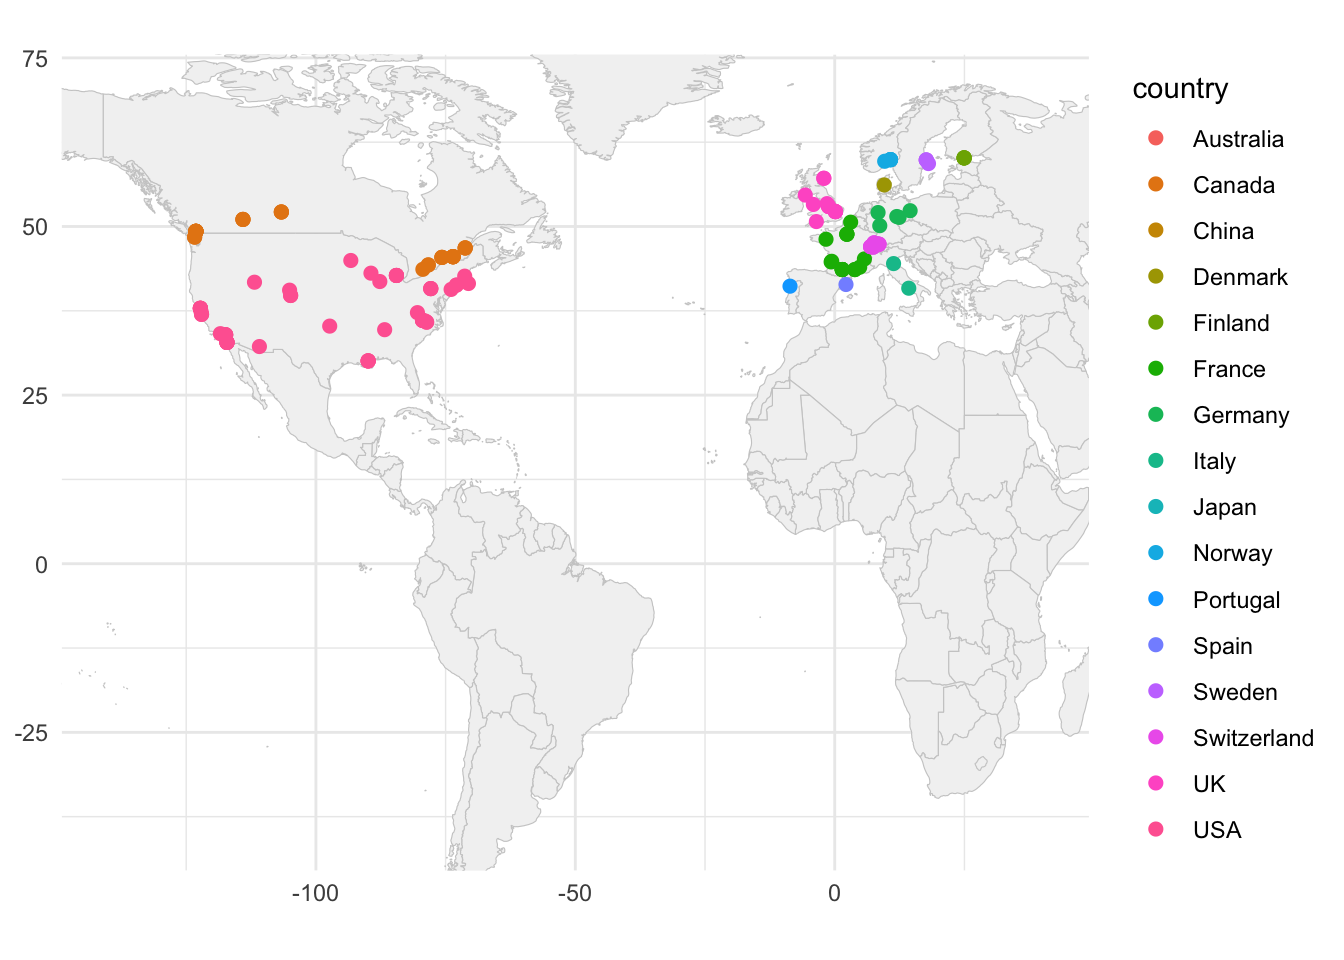
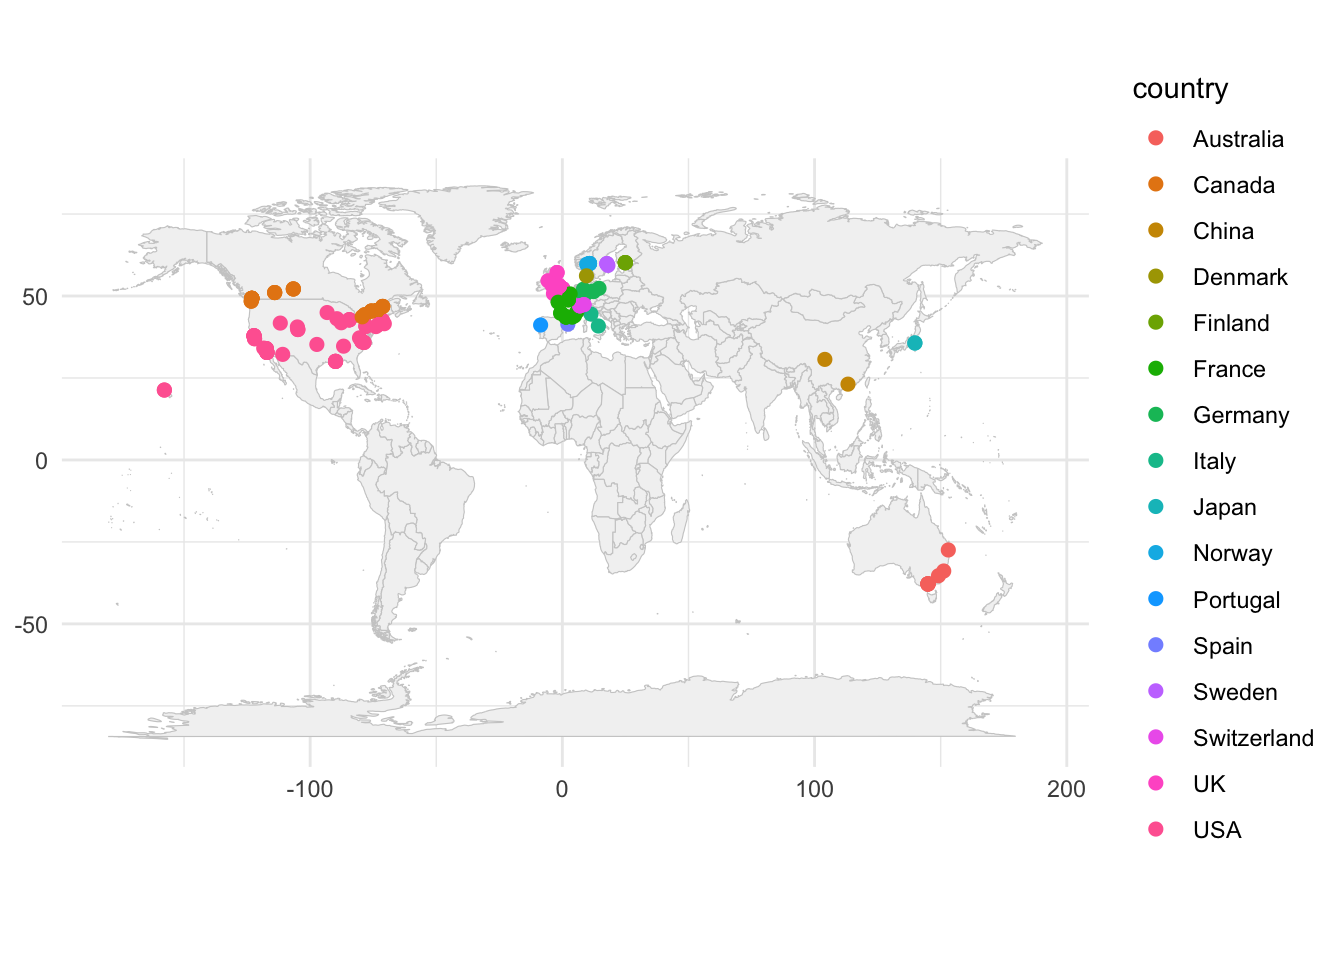
Built site for gh-pages

diff --git a/about.html b/about.html
@@ -186,8 +186,8 @@ ul.task-list li input[type="checkbox"] {
 <h1>Collaborators</h1>
 <div class="cell">
 <div class="cell-output-display">
-<div class="datatables html-widget html-fill-item" id="htmlwidget-de33686ee880739a256c" style="width:100%;height:auto;"></div>
-<script type="application/json" data-for="htmlwidget-de33686ee880739a256c">{"x":{"filter":"top","vertical":false,"filterHTML":"<tr>\n  <td><\/td>\n  <td data-type=\"character\" style=\"vertical-align: top;\">\n    <div class=\"form-group has-feedback\" style=\"margin-bottom: auto;\">\n      <input type=\"search\" placeholder=\"All\" class=\"form-control\" style=\"width: 100%;\"/>\n      <span class=\"glyphicon glyphicon-remove-circle form-control-feedback\"><\/span>\n    <\/div>\n  <\/td>\n  <td data-type=\"character\" style=\"vertical-align: top;\">\n    <div class=\"form-group has-feedback\" style=\"margin-bottom: auto;\">\n      <input type=\"search\" placeholder=\"All\" class=\"form-control\" style=\"width: 100%;\"/>\n      <span class=\"glyphicon glyphicon-remove-circle form-control-feedback\"><\/span>\n    <\/div>\n  <\/td>\n  <td data-type=\"character\" style=\"vertical-align: top;\">\n    <div class=\"form-group has-feedback\" style=\"margin-bottom: auto;\">\n      <input type=\"search\" placeholder=\"All\" class=\"form-control\" style=\"width: 100%;\"/>\n      <span class=\"glyphicon glyphicon-remove-circle form-control-feedback\"><\/span>\n    <\/div>\n  <\/td>\n<\/tr>","data":[["1","2","3","4","5","6","7","8","9","10","11","12","13","14","15","16","17","18","19","20","21","22","23","24","25","26","27","28","29","30","31","32","33","34","35","36","37","38","39","40","41","42","43","44","45","46","47","48","49","50","51","52","53","54","55","56","57","58","59","60","61","62","63","64","65","66","67","68","69","70","71","72","73","74","75","76","77","78","79","80","81","82","83","84","85","86","87","88","89","90","91","92","93","94","95","96","97","98","99","100","101","102","103","104","105","106","107","108","109","110","111","112","113","114","115","116","117","118","119","120","121","122","123","124","125","126","127","128","129","130","131","132","133","134","135","136","137","138","139","140","141","142","143","144","145","146","147","148","149","150","151","152","153","154","155","156","157","158","159","160","161","162","163","164","165","166","167","168","169","170","171","172","173","174","175","176","177","178","179","180","181","182"],["Paul Battlay","James Reeve","Kathryn Hodgins","Justin Borevitz","Keyne Monro","Tom Schmidt","Magena Marzonie","John Stinchcombe","Michael Whitlock","Tony Kess","MK Hickox","Pauline Hessenauer","Rowan Barrett","Lucas Eckert","Zhiqin Long","Gregory Owens","Dolph Schluter","Jon Mee","Loren Rieseberg","Cameron So","Katie Marshall","Victoria Marie Glynn","Baosheng Wang","Milos Duchoslav","Filip Kolar","Magdalena Bohutinska","Christelle Fraïsse","Patrik Nosil","Jonathan Rolland","Thibault LEROY","Fabrice Roux","Claire MEROT","Maxime Bonhomme","Maëva Gabrielli","Francesca Raffini","Rui Faria","Martin Lascoux","Martha Rendón Anaya","Katie Peichel","Marius Roesti","Benjamin Dauphin","Christian Rellstab","Felix Gugerli","Angus Davison","Roger Butlin","Chris Jiggins","Abby Keller","Joan Ferrer Obiol","Samuel Bogan","Anna McCormick","Jessica Purcell","Jill Love","Remy Gatins","Whitney Murchison-Kastner","Jason Holliday","Katie Lotterhos","Sarah Kingston","Zach Gompert","James Santangelo","Mikey Kantar","Erik Enbody","Samridhi Chaturvedi","Diana Rennison","Zachary Tobias","Noah Rose","Sean Schoville","Jenn Coughlan","Derek Denney","Alan Brelsford","Helen Bothwell","James Fifer","Siri Birkeland","Josefa Gonzalez","Tanja Pyhäjärvi","Kristin Winchell","Sam Yeaman","Anne Chambers","Ariadna Morales","Gabriele Nocchi","Keaton Tremble","Felix Zimmermann","Henry North","Satpal Bilkhu","Daniel Croll","Sara Branco","Jessica Fletcher","Sundy Maurice","Jørn Henrik Sønstebø","Aaron Shafer","Lesley Lancaster","Susan McEvoy","Eric Wootton","Faezeh Azimi Chetabi","Moshe Jasper","Veronique Paris","Weiping Zhang","Brandon Lind","Jill Wegrzyn","Cynthia Webster","Mike Barker","Garima Setia","Joanna Kelley","Peter Morrell","Bonnie Fraser","Dan Bolnick","Emma Choi","Rogini Runghen","Sara Schaal","Nicky Lustenhouwer","Matthew Farnitano","Natacha Nikolic","Leon Hilgers","Veronika Lipánová","Desanka Lazic","Ivan Scotti","Dabao Sun Lu","Benjamin Brachi","Tobias Baril","Santiago C. González-Martínez","Joaquin Nunez","Emily Longman","Niels Müller","Justin Boissinot","Jean Keller","José Cerca","Nicolò Tellini","Austin Katzer","David Kingsley","Andrew MacColl","Christophe Patterson","Ji Wang","Frédéric Chain","John Burley","Jordan Bemmels","Pei-Wei Sun","Maria Akopyan","Christoph Rosche","Nina Therkildsen","Caio Brunharo","Sara Sorkhabi","Takashi Tsuchimatsu","Ryo Suda","Emily Josephs","Tom Booker","Frédéric Guillaume","Samantha Sudoko","Jesse Lasky","Diana Gamba","Yvonne Willi","Lionel Di Santo","Christopher Wheat","Acer VanWallendael","Julia Kreiner","Kay Lucek","Xavier Dallaire","Jean-Sébastien Moore","Marianne Elias","Paul Jay","Jing Wang","Alexander Papadopulos","Colette Berg","David Lowry","Moisés Expósito Alonso","Zhe Cai","Joana Meier","Fernando Seixas","Daniel Sadler","Gaston Rognon","Miles Roberts","Jules Perez","Oliver Selmoni","Jeremy Yoder","David James Konkin","Xi Zhang","Petri Kemppainen","Jess Rhodes","Meghan Smith","Thomas Bataillon","Nikolai Hay","Malte Mader","Jenny Tung","Dustin Cram"],["Australia","Denmark","Australia","Australia","Australia","Australia","Australia","Canada","Canada","Canada","Canada","Canada","Canada","Canada","Canada","Canada","Canada","Canada","Canada","Canada","Canada","Canada","China","Czechia","Czechia","Czechia","France","France","France","France","France","France","France","France","Italy","Portugal","Sweden","Sweden","Switzerland","Switzerland","Switzerland","Switzerland","Switzerland","UK","UK","UK","USA","USA","USA","USA","USA","USA","USA","USA","USA","USA","USA","USA","Canada","USA","USA","USA","USA","USA","USA","USA","USA","USA","USA","USA","USA","Norway","Spain","Finland","USA","Canada","USA","France","Italy","USA","Switzerland","UK","Canada","Switzerland","USA","USA","France","Norway","Canada","UK","Finland","Canada","Canada","Australia","Australia","Sweden","USA","USA","USA","USA","USA","USA","USA","UK","USA","USA","USA","USA","UK","USA","France","Germany","Switzerland","Germany","France","Norway","France","Switzerland","France","USA","USA","Germany","Canada","France","Norway","Norway","USA","USA","UK","UK","Canada","USA","Australia","Canada","USA","USA","Germany","USA","USA","UK","Japan","Japan","USA","Canada","Finland","USA","USA","USA","Switzerland","Switzerland","Sweden","USA","USA","Switzerland","Canada","Canada","France","France","China","UK","USA","USA","USA","Canada","UK","UK","USA","France","USA","USA","Switzerland","USA","Canada","Canada","Finland","USA","Canada","Denmark","USA","Germany","Germany","Canada"],["Melbourne","Silkeborg","Melbourne","Melbourne","Melbourne","Sydney","Brisbane","Toronto","Vancouver","Ottawa","Montreal","Quebec","Montreal","Montreal","Vancouver","Victoria","Vancouver","Calgary","Vancouver","Montreal","Vancouver","Montreal","Guangzhou","Praha","Praha","Praha","Lille","Montpellier","Toulouse","Toulouse","Toulouse","Rennes","Toulouse","Toulouse","Naples","Porto","Uppsala","Uppsala","Bern","Bern","Birmensdorf","Birmensdorf","Birmensdorf","Nottingham","Sheffield","Cambridge","Berkeley","Fort Collins","Santa Cruz","Honolulu","Riverside","New Orleans","Nahant","New Orleans","Blacksburg","Nahant","Falmouth","Logan","Ottawa","Honolulu","Ithaca","New Orleans","San Diego","San Diego","San Diego","Madison","New Haven","East Lansing","Riverside","Athens","San Diego","Oslo","Barcelona","Helsinki","New York","Calgary","Berkeley","Montpellier","Bologna","Durham","Birmensdorf","Cambridge","Ottawa","Neuchatel","Denver","Denver","Paris","Kongsberg","Peterborough","Aberdeen","Helsinki","Montreal","Peterborough","Melbourne","Melbourne","Uppsala","Storrs","Storrs","Storrs","Tucson","New Orleans","Santa Cruz","Minneapolis","Exeter","Storrs","Storrs","Storrs","Norman","Aberdeen","San Diego","Saint-Pée-sur-Nivelle","Frankfurt","Zurich","Braunschweig","Avignon","Oslo","Bordeaux","Neuchatel","Cestas","Burlington","Burlington","Braunschweig","Calgary",null,"Oslo","Oslo","Stanford","Stanford","Nottingham","Nottingham","Vancouver","Lowell","Canberra","Victoria","New Haven","Riverside","Halle","Ithaca","State College","Cambridge","Tokyo","Tokyo","East Lansing","Vancouver","Helsinki","Riverside","State College","State College","Basel","Basel","Stockholm","Raleigh","Chicago","Neuchatel","Quebec","Quebec","Paris","Grenoble","Chengdu","Bangor","East Lansing","East Lansing","Berkeley","Vancouver","Cambridge","Cambridge","Burlington","Paris","Berkeley","Berkeley","Zurich","Los Angeles","Saskatoon","Saskatoon","Helsinki","Palo Alto","Vancouver","Aarhus","Raleigh","Braunschweig","Leipzig","Saskatoon"]],"container":"<table class=\"display\">\n  <thead>\n    <tr>\n      <th> <\/th>\n      <th>Name<\/th>\n      <th>Country<\/th>\n      <th>City<\/th>\n    <\/tr>\n  <\/thead>\n<\/table>","options":{"pageLength":10,"lengthChange":false,"columnDefs":[{"orderable":false,"targets":0},{"name":" ","targets":0},{"name":"Name","targets":1},{"name":"Country","targets":2},{"name":"City","targets":3}],"order":[],"autoWidth":false,"orderClasses":false,"orderCellsTop":true}},"evals":[],"jsHooks":[]}</script>
+<div class="datatables html-widget html-fill-item" id="htmlwidget-75e8ce80c500161feab8" style="width:100%;height:auto;"></div>
+<script type="application/json" data-for="htmlwidget-75e8ce80c500161feab8">{"x":{"filter":"top","vertical":false,"filterHTML":"<tr>\n  <td><\/td>\n  <td data-type=\"character\" style=\"vertical-align: top;\">\n    <div class=\"form-group has-feedback\" style=\"margin-bottom: auto;\">\n      <input type=\"search\" placeholder=\"All\" class=\"form-control\" style=\"width: 100%;\"/>\n      <span class=\"glyphicon glyphicon-remove-circle form-control-feedback\"><\/span>\n    <\/div>\n  <\/td>\n  <td data-type=\"character\" style=\"vertical-align: top;\">\n    <div class=\"form-group has-feedback\" style=\"margin-bottom: auto;\">\n      <input type=\"search\" placeholder=\"All\" class=\"form-control\" style=\"width: 100%;\"/>\n      <span class=\"glyphicon glyphicon-remove-circle form-control-feedback\"><\/span>\n    <\/div>\n  <\/td>\n  <td data-type=\"character\" style=\"vertical-align: top;\">\n    <div class=\"form-group has-feedback\" style=\"margin-bottom: auto;\">\n      <input type=\"search\" placeholder=\"All\" class=\"form-control\" style=\"width: 100%;\"/>\n      <span class=\"glyphicon glyphicon-remove-circle form-control-feedback\"><\/span>\n    <\/div>\n  <\/td>\n<\/tr>","data":[["1","2","3","4","5","6","7","8","9","10","11","12","13","14","15","16","17","18","19","20","21","22","23","24","25","26","27","28","29","30","31","32","33","34","35","36","37","38","39","40","41","42","43","44","45","46","47","48","49","50","51","52","53","54","55","56","57","58","59","60","61","62","63","64","65","66","67","68","69","70","71","72","73","74","75","76","77","78","79","80","81","82","83","84","85","86","87","88","89","90","91","92","93","94","95","96","97","98","99","100","101","102","103","104","105","106","107","108","109","110","111","112","113","114","115","116","117","118","119","120","121","122","123","124","125","126","127","128","129","130","131","132","133","134","135","136","137","138","139","140","141","142","143","144","145","146","147","148","149","150","151","152","153","154","155","156","157","158","159","160","161","162","163","164","165","166","167","168","169","170","171","172","173","174","175","176","177","178","179","180","181","182"],["Paul Battlay","James Reeve","Kathryn Hodgins","Justin Borevitz","Keyne Monro","Tom Schmidt","Magena Marzonie","John Stinchcombe","Michael Whitlock","Tony Kess","MK Hickox","Pauline Hessenauer","Rowan Barrett","Lucas Eckert","Zhiqin Long","Gregory Owens","Dolph Schluter","Jon Mee","Loren Rieseberg","Cameron So","Katie Marshall","Victoria Marie Glynn","Baosheng Wang","Milos Duchoslav","Filip Kolar","Magdalena Bohutinska","Christelle Fraïsse","Patrik Nosil","Jonathan Rolland","Thibault LEROY","Fabrice Roux","Claire MEROT","Maxime Bonhomme","Maëva Gabrielli","Francesca Raffini","Rui Faria","Martin Lascoux","Martha Rendón Anaya","Katie Peichel","Marius Roesti","Benjamin Dauphin","Christian Rellstab","Felix Gugerli","Angus Davison","Roger Butlin","Chris Jiggins","Abby Keller","Joan Ferrer Obiol","Samuel Bogan","Anna McCormick","Jessica Purcell","Jill Love","Remy Gatins","Whitney Murchison-Kastner","Jason Holliday","Katie Lotterhos","Sarah Kingston","Zach Gompert","James Santangelo","Mikey Kantar","Erik Enbody","Samridhi Chaturvedi","Diana Rennison","Zachary Tobias","Noah Rose","Sean Schoville","Jenn Coughlan","Derek Denney","Alan Brelsford","Helen Bothwell","James Fifer","Siri Birkeland","Josefa Gonzalez","Tanja Pyhäjärvi","Kristin Winchell","Sam Yeaman","Anne Chambers","Ariadna Morales","Gabriele Nocchi","Keaton Tremble","Felix Zimmermann","Henry North","Satpal Bilkhu","Daniel Croll","Sara Branco","Jessica Fletcher","Sundy Maurice","Jørn Henrik Sønstebø","Aaron Shafer","Lesley Lancaster","Susan McEvoy","Eric Wootton","Faezeh Azimi Chetabi","Moshe Jasper","Veronique Paris","Weiping Zhang","Brandon Lind","Jill Wegrzyn","Cynthia Webster","Mike Barker","Garima Setia","Joanna Kelley","Peter Morrell","Bonnie Fraser","Dan Bolnick","Emma Choi","Rogini Runghen","Sara Schaal","Nicky Lustenhouwer","Matthew Farnitano","Natacha Nikolic","Leon Hilgers","Veronika Lipánová","Desanka Lazic","Ivan Scotti","Dabao Sun Lu","Benjamin Brachi","Tobias Baril","Santiago C. González-Martínez","Joaquin Nunez","Emily Longman","Niels Müller","Justin Boissinot","Jean Keller","José Cerca","Nicolò Tellini","Austin Katzer","David Kingsley","Andrew MacColl","Christophe Patterson","Ji Wang","Frédéric Chain","John Burley","Jordan Bemmels","Pei-Wei Sun","Maria Akopyan","Christoph Rosche","Nina Therkildsen","Caio Brunharo","Sara Sorkhabi","Takashi Tsuchimatsu","Ryo Suda","Emily Josephs","Tom Booker","Frédéric Guillaume","Samantha Sudoko","Jesse Lasky","Diana Gamba","Yvonne Willi","Lionel Di Santo","Christopher Wheat","Acer VanWallendael","Julia Kreiner","Kay Lucek","Xavier Dallaire","Jean-Sébastien Moore","Marianne Elias","Paul Jay","Jing Wang","Alexander Papadopulos","Colette Berg","David Lowry","Moisés Expósito Alonso","Zhe Cai","Joana Meier","Fernando Seixas","Daniel Sadler","Gaston Rognon","Miles Roberts","Jules Perez","Oliver Selmoni","Jeremy Yoder","David James Konkin","Xi Zhang","Petri Kemppainen","Jess Rhodes","Meghan Smith","Thomas Bataillon","Nikolai Hay","Malte Mader","Jenny Tung","Dustin Cram"],["Australia","Denmark","Australia","Australia","Australia","Australia","Australia","Canada","Canada","Canada","Canada","Canada","Canada","Canada","Canada","Canada","Canada","Canada","Canada","Canada","Canada","Canada","China","Czechia","Czechia","Czechia","France","France","France","France","France","France","France","France","Italy","Portugal","Sweden","Sweden","Switzerland","Switzerland","Switzerland","Switzerland","Switzerland","UK","UK","UK","USA","USA","USA","USA","USA","USA","USA","USA","USA","USA","USA","USA","Canada","USA","USA","USA","USA","USA","USA","USA","USA","USA","USA","USA","USA","Norway","Spain","Finland","USA","Canada","USA","France","Italy","USA","Switzerland","UK","Canada","Switzerland","USA","USA","France","Norway","Canada","UK","Finland","Canada","Canada","Australia","Australia","Sweden","USA","USA","USA","USA","USA","USA","USA","UK","USA","USA","USA","USA","UK","USA","France","Germany","Switzerland","Germany","France","Norway","France","Switzerland","France","USA","USA","Germany","Canada","France","Norway","Norway","USA","USA","UK","UK","Canada","USA","Australia","Canada","USA","USA","Germany","USA","USA","UK","Japan","Japan","USA","Canada","Finland","USA","USA","USA","Switzerland","Switzerland","Sweden","USA","USA","Switzerland","Canada","Canada","France","France","China","UK","USA","USA","USA","Canada","UK","UK","USA","France","USA","USA","Switzerland","USA","Canada","Canada","Finland","USA","Canada","Denmark","USA","Germany","Germany","Canada"],["Melbourne","Silkeborg","Melbourne","Melbourne","Melbourne","Sydney","Brisbane","Toronto","Vancouver","Ottawa","Montreal","Quebec","Montreal","Montreal","Vancouver","Victoria","Vancouver","Calgary","Vancouver","Montreal","Vancouver","Montreal","Guangzhou","Praha","Praha","Praha","Lille","Montpellier","Toulouse","Toulouse","Toulouse","Rennes","Toulouse","Toulouse","Naples","Porto","Uppsala","Uppsala","Bern","Bern","Birmensdorf","Birmensdorf","Birmensdorf","Nottingham","Sheffield","Cambridge","Berkeley","Fort Collins","Santa Cruz","Honolulu","Riverside","New Orleans","Nahant","New Orleans","Blacksburg","Nahant","Falmouth","Logan","Ottawa","Honolulu","Ithaca","New Orleans","San Diego","San Diego","San Diego","Madison","New Haven","East Lansing","Riverside","Athens","San Diego","Oslo","Barcelona","Helsinki","New York","Calgary","Berkeley","Montpellier","Bologna","Durham","Birmensdorf","Cambridge","Ottawa","Neuchatel","Denver","Denver","Paris","Kongsberg","Peterborough","Aberdeen","Helsinki","Montreal","Peterborough","Melbourne","Melbourne","Uppsala","Storrs","Storrs","Storrs","Tucson","New Orleans","Santa Cruz","Minneapolis","Exeter","Storrs","Storrs","Storrs","Norman","Aberdeen","San Diego","Saint-Pée-sur-Nivelle","Frankfurt","Zurich","Braunschweig","Avignon","Oslo","Bordeaux","Neuchatel","Cestas","Burlington","Burlington","Braunschweig","Calgary",null,"Oslo","Oslo","Stanford","Stanford","Nottingham","Nottingham","Vancouver","Lowell","Canberra","Victoria","New Haven","Riverside","Halle","Ithaca","State College","Cambridge","Tokyo","Tokyo","East Lansing","Vancouver","Helsinki","Riverside","State College","State College","Basel","Basel","Stockholm","Raleigh","Chicago","Neuchatel","Quebec","Quebec","Paris","Grenoble","Chengdu","Bangor","East Lansing","East Lansing","Berkeley","Vancouver","Cambridge","Cambridge","Burlington","Paris","Berkeley","Berkeley","Zurich","Los Angeles","Saskatoon","Saskatoon","Helsinki","Palo Alto","Vancouver","Aarhus","Raleigh","Braunschweig","Leipzig","Saskatoon"]],"container":"<table class=\"display\">\n  <thead>\n    <tr>\n      <th> <\/th>\n      <th>Name<\/th>\n      <th>Country<\/th>\n      <th>City<\/th>\n    <\/tr>\n  <\/thead>\n<\/table>","options":{"pageLength":10,"lengthChange":false,"columnDefs":[{"orderable":false,"targets":0},{"name":" ","targets":0},{"name":"Name","targets":1},{"name":"Country","targets":2},{"name":"City","targets":3}],"order":[],"autoWidth":false,"orderClasses":false,"orderCellsTop":true}},"evals":[],"jsHooks":[]}</script>
 </div>
 </div>
 <div class="cell">
@@ -277,7 +277,7 @@ ul.task-list li input[type="checkbox"] {
     }
       var localhostRegex = new RegExp(/^(?:http|https):\/\/localhost\:?[0-9]*\//);
       var mailtoRegex = new RegExp(/^mailto:/);
-        var filterRegex = new RegExp('/' + window.location.host + '/');
+        var filterRegex = new RegExp("https:\/\/RepAdapt\.github\.io\/");
       var isInternal = (href) => {
           return filterRegex.test(href) || localhostRegex.test(href) || mailtoRegex.test(href);
       }

diff --git a/index.html b/index.html
@@ -315,7 +315,7 @@ By using a common set of methods to call variants and analyze patterns of genomi
     }
       var localhostRegex = new RegExp(/^(?:http|https):\/\/localhost\:?[0-9]*\//);
       var mailtoRegex = new RegExp(/^mailto:/);
-        var filterRegex = new RegExp('/' + window.location.host + '/');
+        var filterRegex = new RegExp("https:\/\/RepAdapt\.github\.io\/");
       var isInternal = (href) => {
           return filterRegex.test(href) || localhostRegex.test(href) || mailtoRegex.test(href);
       }

diff --git a/support.html b/support.html
@@ -328,7 +328,7 @@ document.getElementById("quiz-submit").addEventListener("click", () => {
     }
       var localhostRegex = new RegExp(/^(?:http|https):\/\/localhost\:?[0-9]*\//);
       var mailtoRegex = new RegExp(/^mailto:/);
-        var filterRegex = new RegExp('/' + window.location.host + '/');
+        var filterRegex = new RegExp("https:\/\/RepAdapt\.github\.io\/");
       var isInternal = (href) => {
           return filterRegex.test(href) || localhostRegex.test(href) || mailtoRegex.test(href);
       }

diff --git a/bug.html b/bug.html
@@ -240,7 +240,7 @@ ul.task-list li input[type="checkbox"] {
     }
       var localhostRegex = new RegExp(/^(?:http|https):\/\/localhost\:?[0-9]*\//);
       var mailtoRegex = new RegExp(/^mailto:/);
-        var filterRegex = new RegExp('/' + window.location.host + '/');
+        var filterRegex = new RegExp("https:\/\/RepAdapt\.github\.io\/");
       var isInternal = (href) => {
           return filterRegex.test(href) || localhostRegex.test(href) || mailtoRegex.test(href);
       }

diff --git a/more_info.html b/more_info.html
@@ -289,7 +289,7 @@ ul.task-list li input[type="checkbox"] {
     }
       var localhostRegex = new RegExp(/^(?:http|https):\/\/localhost\:?[0-9]*\//);
       var mailtoRegex = new RegExp(/^mailto:/);
-        var filterRegex = new RegExp('/' + window.location.host + '/');
+        var filterRegex = new RegExp("https:\/\/RepAdapt\.github\.io\/");
       var isInternal = (href) => {
           return filterRegex.test(href) || localhostRegex.test(href) || mailtoRegex.test(href);
       }

diff --git a/results.html b/results.html
@@ -346,7 +346,7 @@ ul.task-list li input[type="checkbox"] {
     }
       var localhostRegex = new RegExp(/^(?:http|https):\/\/localhost\:?[0-9]*\//);
       var mailtoRegex = new RegExp(/^mailto:/);
-        var filterRegex = new RegExp('/' + window.location.host + '/');
+        var filterRegex = new RegExp("https:\/\/RepAdapt\.github\.io\/");
       var isInternal = (href) => {
           return filterRegex.test(href) || localhostRegex.test(href) || mailtoRegex.test(href);
       }

diff --git a/research.html b/research.html
@@ -304,7 +304,7 @@ Abstract
     }
       var localhostRegex = new RegExp(/^(?:http|https):\/\/localhost\:?[0-9]*\//);
       var mailtoRegex = new RegExp(/^mailto:/);
-        var filterRegex = new RegExp('/' + window.location.host + '/');
+        var filterRegex = new RegExp("https:\/\/RepAdapt\.github\.io\/");
       var isInternal = (href) => {
           return filterRegex.test(href) || localhostRegex.test(href) || mailtoRegex.test(href);
       }
